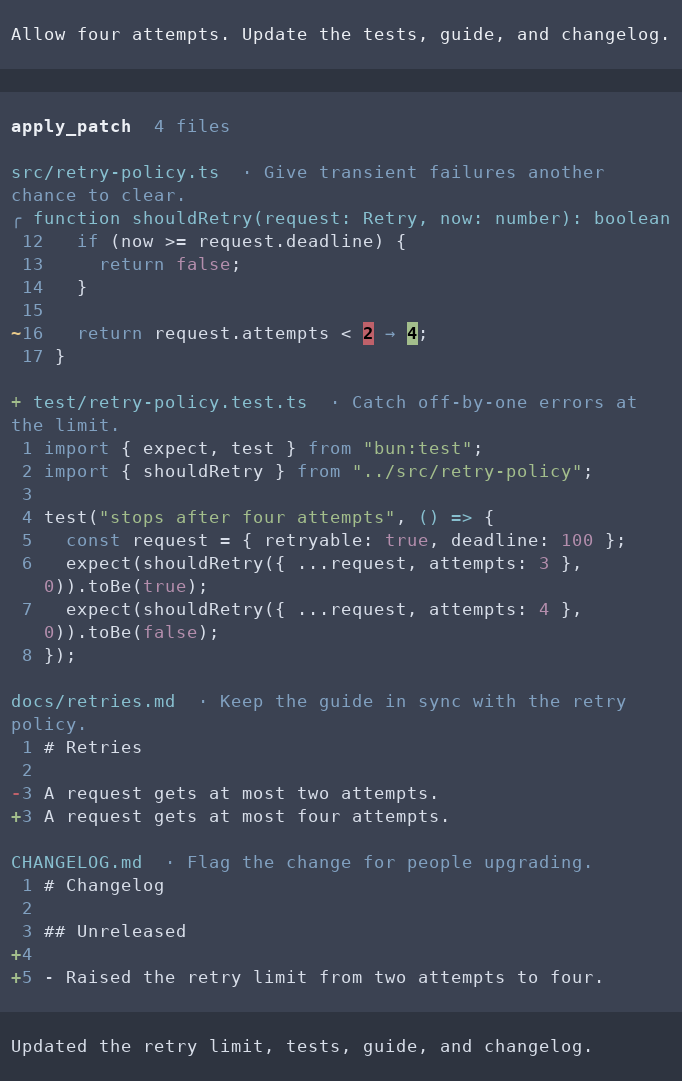
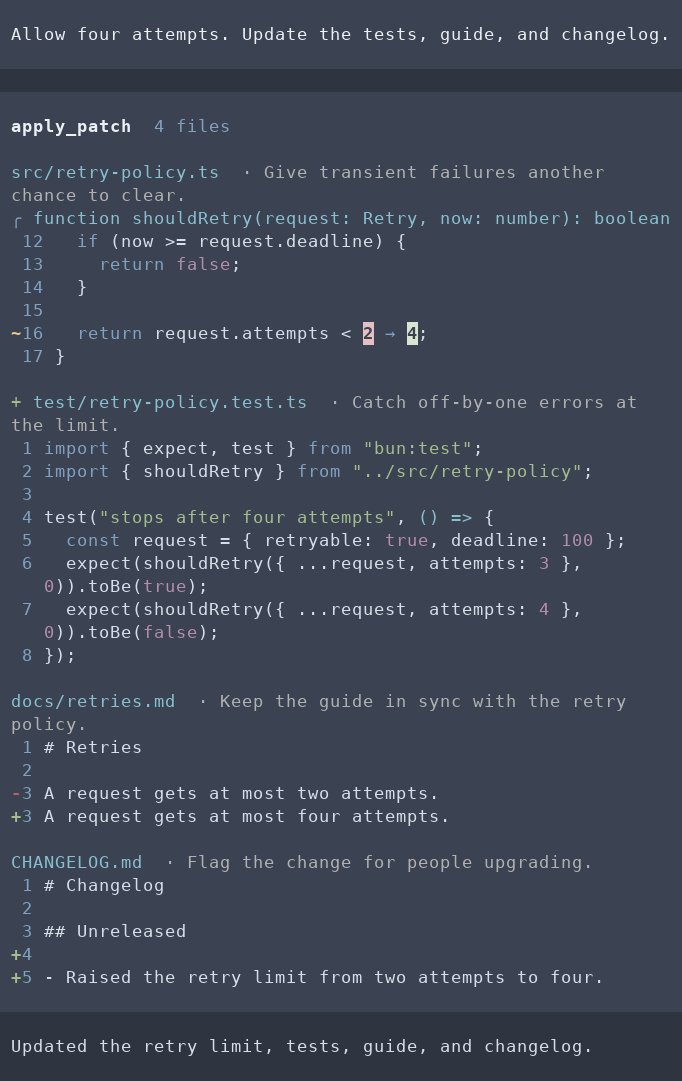
style(diff): use gray inlays and pale word highlights

diff --git a/tests/diagnostics.test.ts b/tests/diagnostics.test.ts
@@ -18,10 +18,13 @@ import {
   type DiagnosticSnapshot,
 } from "../code-intelligence/diagnostics.ts";
 const plain = {
+  appearance: "dark" as const,
   bg: (_tone: ThemeBg, value: string) => value,
   fg: (_tone: ThemeColor, value: string) => value,
   bold: (value: string) => value,
   colors: {
+    text: parseColor("#D8DEE9"),
+    toolSuccessBg: parseColor("#3B4252"),
     toolDiffRemoved: parseColor("#BF616A"),
     toolDiffAdded: parseColor("#A3BE8C"),
   },
@@ -297,16 +300,40 @@ await test("token fills and gutter roles survive compact, paired and wrapped dif
       return ansi + text + (ansi === "" ? "" : "\x1b[39m");
     },
     style(text: string, options: ThemeStyle) {
-      assert.ok(
-        typeof options.bg === "object" && typeof options.fg === "object",
-      );
+      assert.ok(typeof options.fg === "object");
+      assert.ok(options.bg === undefined || typeof options.bg === "object");
       return styleText(
         text,
-        { bg: options.bg, fg: options.fg, bold: true },
+        {
+          fg: options.fg,
+          ...(options.bg === undefined ? {} : { bg: options.bg }),
+          bold: options.bold === true,
+        },
         "truecolor",
       );
     },
   };
+  const gray = "\x1b[38;2;177;177;177m";
+  const reason = "Allow another attempt";
+  assert.ok(
+    editFileHeading(theme, "Edit", "retry.ts", reason).includes(
+      `${gray}  · ${reason}`,
+    ),
+  );
+  const light = {
+    ...theme,
+    appearance: "light" as const,
+    colors: {
+      ...theme.colors,
+      toolSuccessBg: parseColor("#F2F2F2"),
+      text: parseColor("#202020"),
+    },
+  };
+  assert.ok(
+    editFileHeading(light, "Edit", "retry.ts", reason).includes(
+      "\x1b[38;2;85;85;85m",
+    ),
+  );
   const diff = "-12 return attempts < 2;\n+12 return attempts < 4;";
   const change = { row: 1, start: 18, original: "2", updated: "4" };
   for (const [width, withIssue] of [
@@ -339,8 +366,11 @@ await test("token fills and gutter roles survive compact, paired and wrapped dif
     );
     const view = rows.join("\n");
     assert.ok(rows.every((row) => visibleWidth(row) <= width));
-    assert.ok(view.includes("\x1b[48;2;191;97;106m"), "removal fill");
-    assert.ok(view.includes("\x1b[48;2;163;190;140m"), "addition fill");
+    assert.ok(view.includes("\x1b[48;2;229;192;195m"), "removal tint");
+    assert.ok(view.includes("\x1b[48;2;218;229;209m"), "addition tint");
+    assert.ok(view.includes("\x1b[38;2;59;66;82m"), "dark ink on light fills");
+    if (withIssue && width === 120)
+      assert.ok(view.includes(`${gray}Out of range`));
     if (!withIssue) {
       assert.ok(view.includes("\x1b[33m~\x1b[39m\x1b[34m12 "));
       assert.match(stripTerminalSequences(view), /return attempts < 2 → 4;/u);
@@ -348,6 +378,30 @@ await test("token fills and gutter roles survive compact, paired and wrapped dif
       assert.ok(view.includes("\x1b[4:3m"));
     }
   }
+  const custom = syntaxDiffRows(
+    diff,
+    "retry.ts",
+    light,
+    80,
+    "/project",
+    undefined,
+    {
+      min_split_columns: 40,
+      inline_diagnostics: true,
+      removed_background: "#080808",
+      added_background: "#f0f0f0",
+    },
+    [],
+    { replacements: [change] },
+  ).join("\n");
+  assert.ok(
+    custom.includes("\x1b[38;2;255;255;255m\x1b[48;2;8;8;8m"),
+    "light ink on overridden dark fill",
+  );
+  assert.ok(
+    custom.includes("\x1b[38;2;32;32;32m\x1b[48;2;240;240;240m"),
+    "light-theme ink on overridden light fill",
+  );
 });
 
 await test("a replacement that cannot fit inline keeps both source lines", () => {

diff --git a/code-intelligence/diff.ts b/code-intelligence/diff.ts
@@ -14,6 +14,7 @@ import {
   colorToRgb,
   getCapabilities,
   hyperlink,
+  mixColors,
   parseColor,
   rgbColor,
   type Color,
@@ -31,10 +32,12 @@ export function displayEditReason(reason: string): string {
 }
 
 type Highlighter = (text: string, language: string) => string[];
-type HeadingTheme = Pick<Theme, "fg" | "bold">;
+type HeadingTheme = Pick<Theme, "fg" | "bold" | "style" | "appearance"> & {
+  colors: Pick<Theme["colors"], "toolSuccessBg">;
+};
 type DiffTheme = HeadingTheme &
-  Pick<Theme, "bg" | "style"> & {
-    colors: Pick<Theme["colors"], "toolDiffAdded" | "toolDiffRemoved">;
+  Pick<Theme, "bg"> & {
+    colors: Pick<Theme["colors"], "text" | "toolDiffAdded" | "toolDiffRemoved">;
   };
 
 export function editFileHeading(
@@ -52,21 +55,38 @@ export function editFileHeading(
     name +
     glyph +
     pathLabel +
-    (inlay === "" ? "" : theme.fg("muted", `  · ${inlay}`))
+    (inlay === "" ? "" : inlayText(theme, `  · ${inlay}`))
   );
 }
 
-// Choose the more legible ink for the active theme's addition/removal fill.
-function tokenInk(fill: Color) {
-  const { r, g, b } = colorToRgb(fill);
+const white = rgbColor(255, 255, 255);
+
+function luminance(color: Color) {
+  const { r, g, b } = colorToRgb(color);
   const linear = (channel: number) => {
     const v = channel / 255;
     return v <= 0.04045 ? v / 12.92 : ((v + 0.055) / 1.055) ** 2.4;
   };
-  const luminance =
-    0.2126 * linear(r) + 0.7152 * linear(g) + 0.0722 * linear(b);
-  return luminance > 0.179 ? rgbColor(0, 0, 0) : rgbColor(255, 255, 255);
+  return 0.2126 * linear(r) + 0.7152 * linear(g) + 0.0722 * linear(b);
 }
+
+function readableInk(background: Color, preferred: Color) {
+  const bg = luminance(background);
+  const fg = luminance(preferred);
+  if ((Math.max(bg, fg) + 0.05) / (Math.min(bg, fg) + 0.05) >= 4.5)
+    return preferred;
+  return bg > 0.179 ? rgbColor(0, 0, 0) : white;
+}
+
+function inlayText(theme: HeadingTheme, text: string) {
+  const gray = theme.appearance === "dark" ? 177 : 85;
+  const fg = readableInk(
+    theme.colors.toolSuccessBg,
+    rgbColor(gray, gray, gray),
+  );
+  return theme.style(text, { fg });
+}
+
 interface DiffLine {
   raw: string;
   prefix: string | undefined;
@@ -313,8 +333,14 @@ export function syntaxDiffRows(
     override?: string,
   ) => {
     const bg =
-      override === undefined ? theme.colors[tone] : parseColor(override);
-    return theme.style(text, { bg, fg: tokenInk(bg), bold: true });
+      override === undefined
+        ? mixColors(theme.colors[tone], white, 0.6, "srgb")
+        : parseColor(override);
+    const ink =
+      theme.appearance === "dark"
+        ? theme.colors.toolSuccessBg
+        : theme.colors.text;
+    return theme.style(text, { bg, fg: readableInk(bg, ink), bold: true });
   };
   const markedCode = (line: DiffLine, compact: boolean) => {
     const removed = line.prefix === "-";
@@ -391,7 +417,7 @@ export function syntaxDiffRows(
           });
     const inlayRows: string[] = [];
     for (const issue of issues) {
-      const inlay = `${theme.fg(issue.severity, diagnosticGlyph(issue.severity))} ${theme.fg("muted", clean(issue.message))}`;
+      const inlay = `${theme.fg(issue.severity, diagnosticGlyph(issue.severity))} ${inlayText(theme, clean(issue.message))}`;
       const last = sourceRows.at(-1);
       if (
         last !== undefined &&
